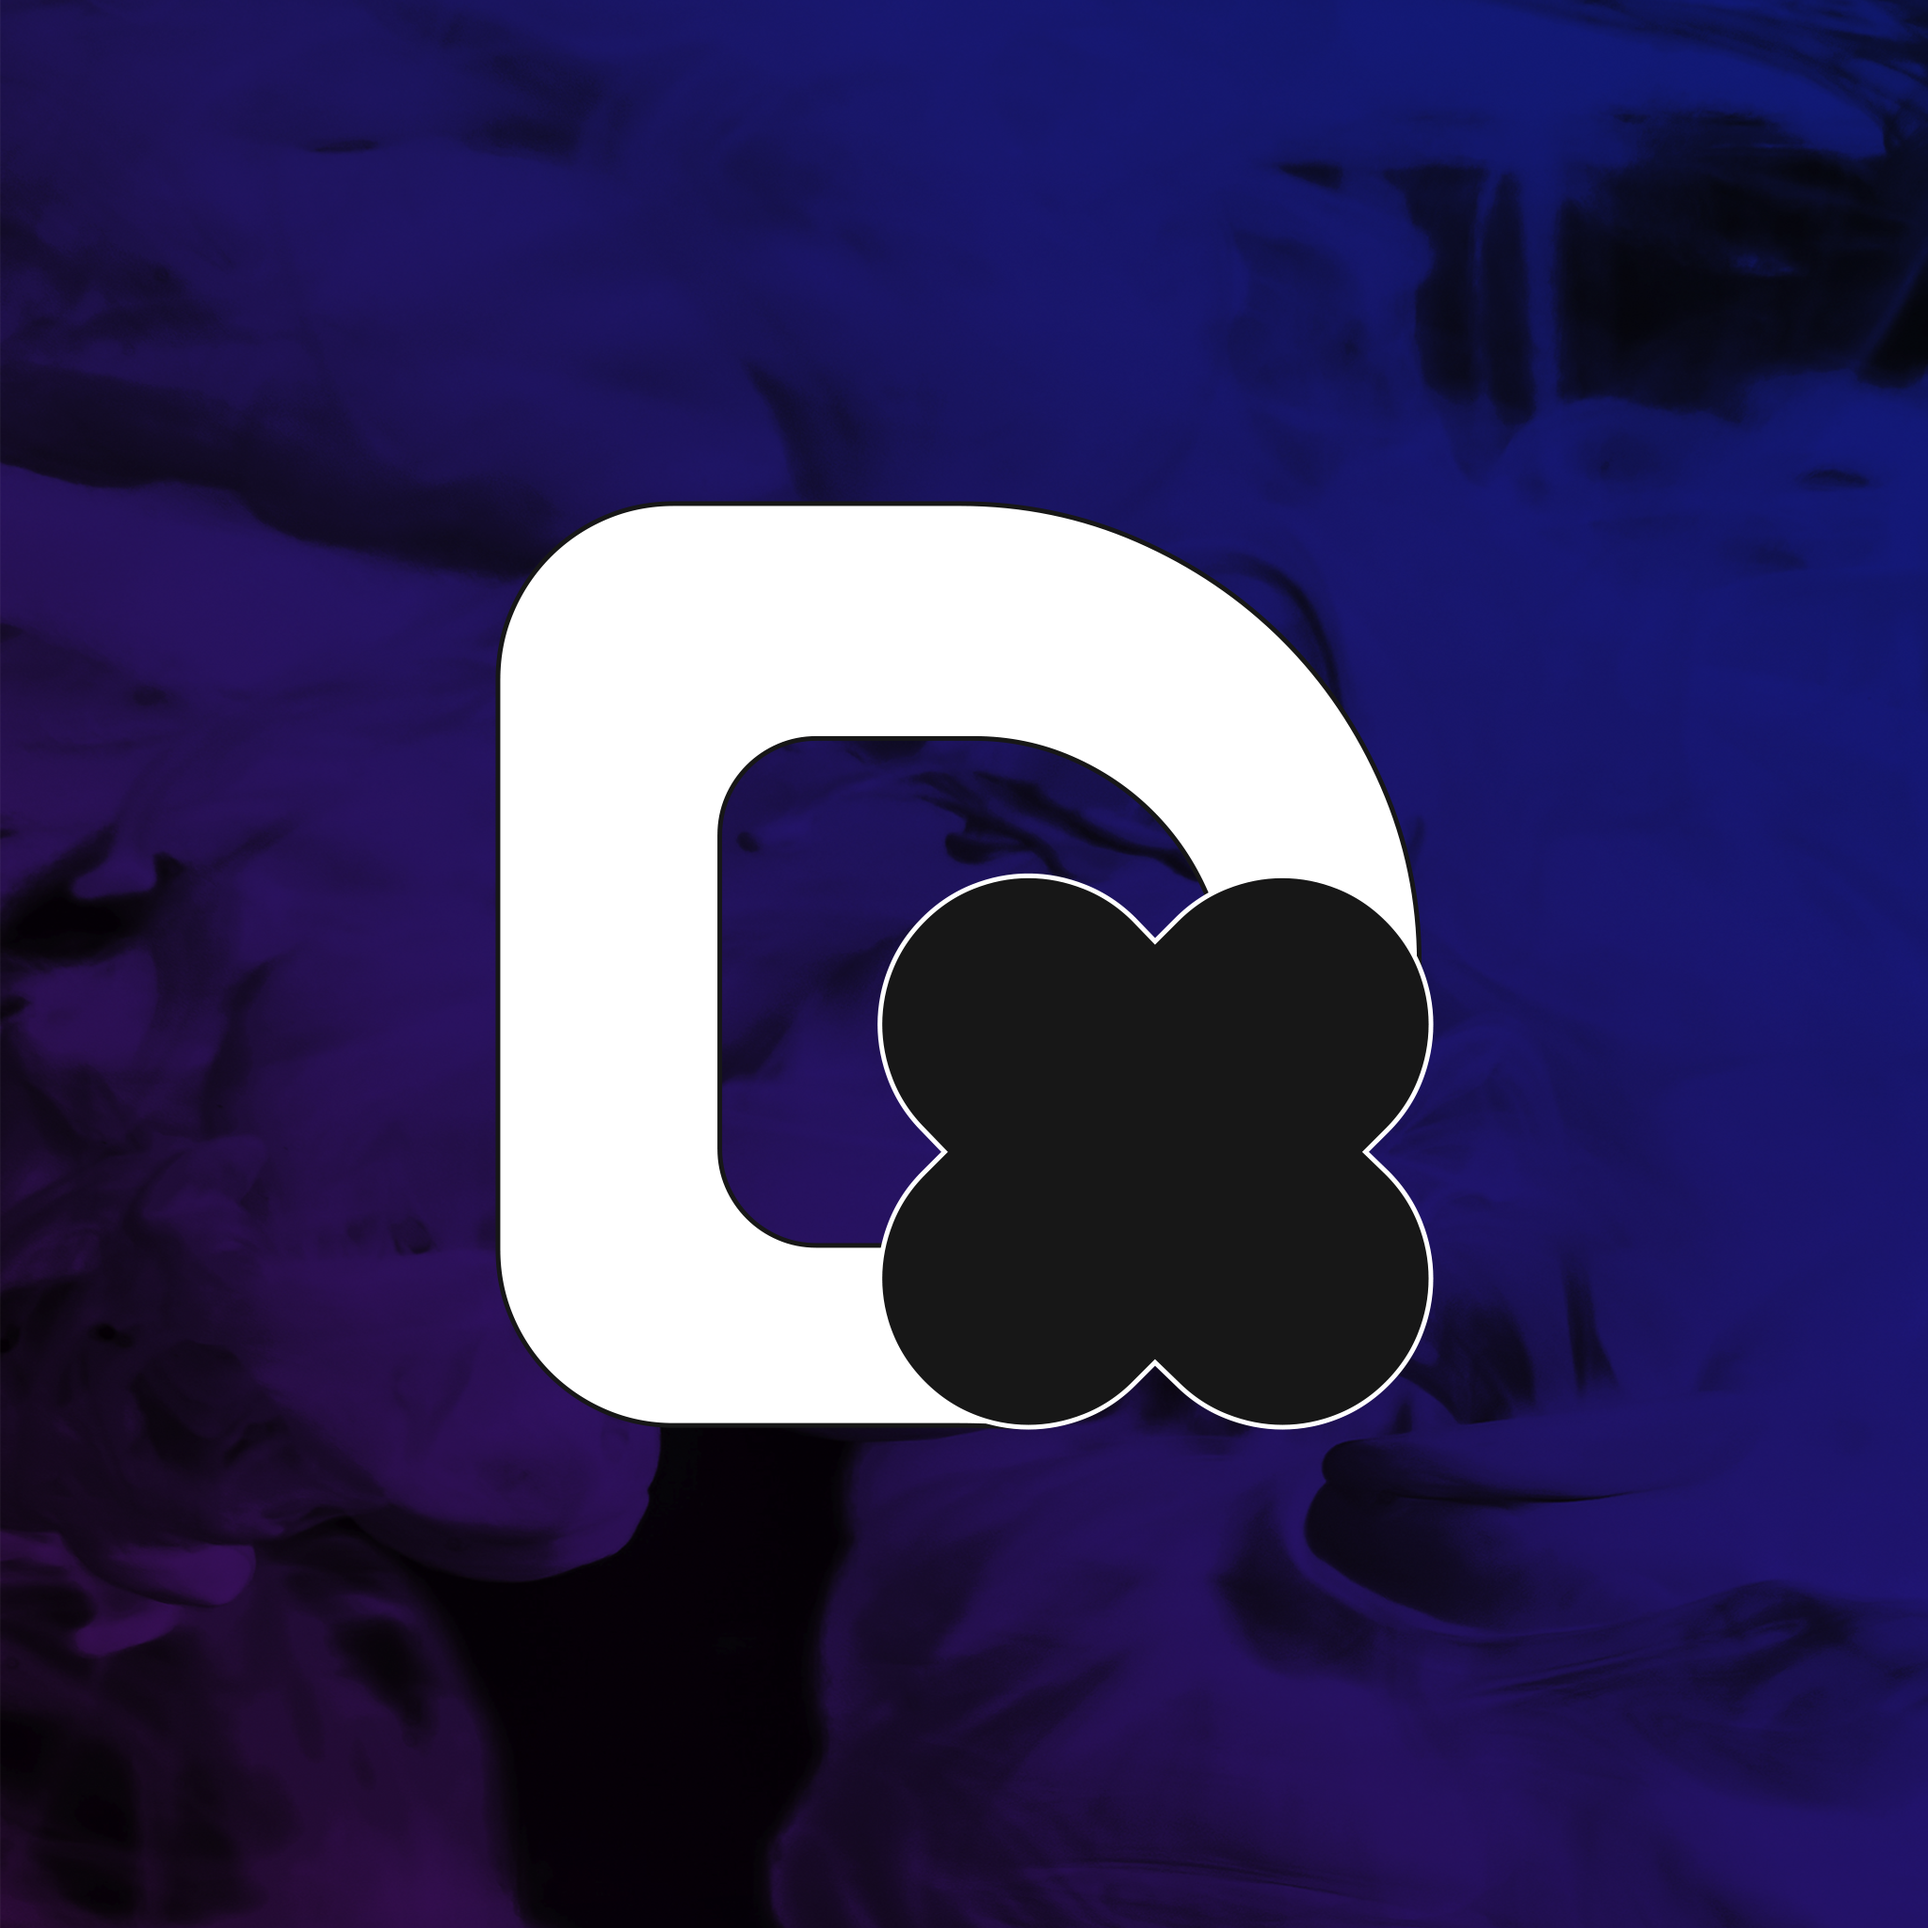
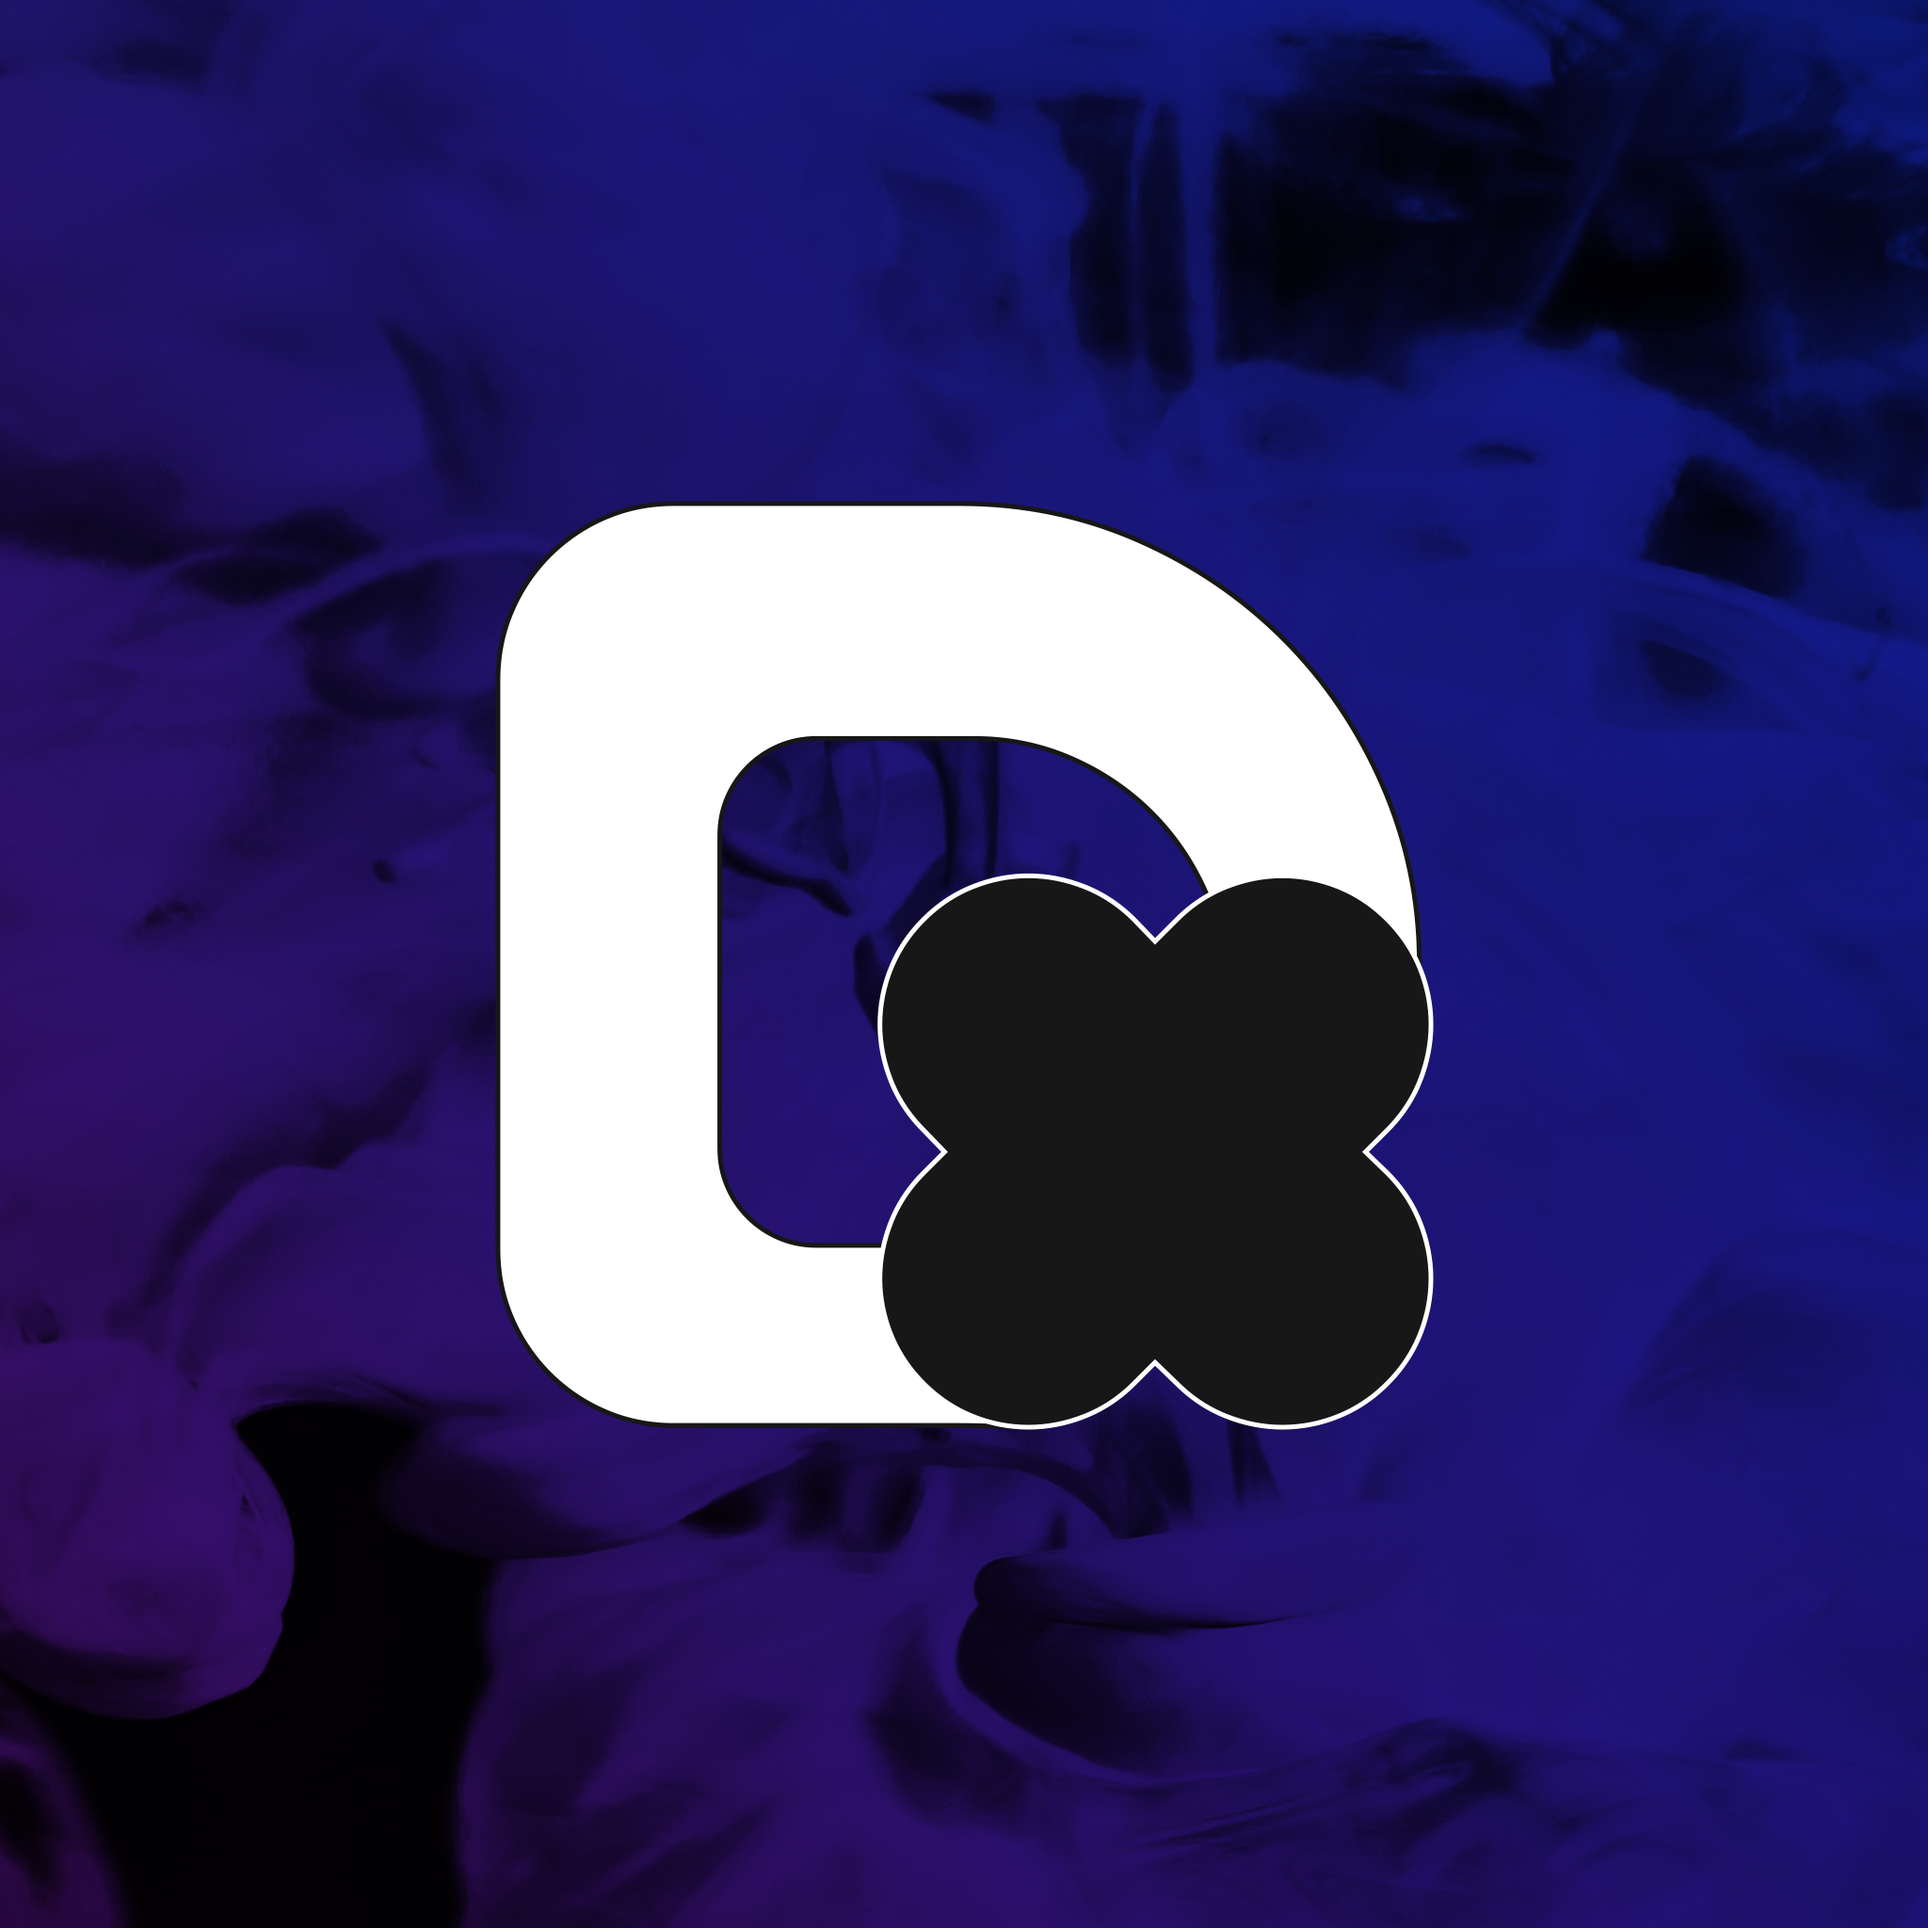
Updated lots including branding, text, and many other things

diff --git a/index.html b/index.html
@@ -37,7 +37,7 @@
 		<nav class="navbar-menu" id="navMenu">
 			<div class="navbar-brand">
 				<a href="/" class="navbar-item">
-					<img src="img/light.png" alt="Avatar">
+					<img src="img/wordmark-dark.png" alt="Dark Wordmark">
 				</a>
 			</div>
 			<div class="navbar-end">
@@ -54,54 +54,68 @@
         	</div>
 		</nav>
 		<div class="banner">
-			<img src="img/typeface-light.png" alt="Avatar" class="avatar">
+			<img src="img/typeface-light.png" alt="Avatar" class="avatar animated fadeIn">
 		</div>
-		<div class="main-section">
-			<br>
-			<h1 class="title is-2 has-text-centered has-text-white">About Me</h1>
+		<div class="main-section animated fadeIn">
 			<br>
 			<img src="img/colour.png" class="me" alt="Avatar">
 			<br>
 			<br>
-			<div class="level is-mobile animated bounce">
-				<a href="https://www.youtube.com/channel/UC-sKaby5WijEgCASk6D4LKA" class="level-item">
-					<span class="icon is-small"><i class="fab fa-youtube"></i></span>
-				</a>
-				<a href="https://twitter.com/CameronDtix" class="level-item">
-					<span class="icon is-small"><i class="fab fa-twitter"></i></span>
-				</a>
-				<a href="https://github.com/MrCamDtix" class="level-item">
-					<span class="icon is-small"><i class="fab fa-github"></i></span>
-				</a>
-				<a href="https://pastebin.com/K0sN5xaB" class="level-item">
-					<span class="icon is-small"><i class="fab fa-discord"></i></span>
-				</a>
-			</div>
+			<a href="https://www.youtube.com/channel/UC-sKaby5WijEgCASk6D4LKA" class="level-item">
+				<span class="icon is-small"><i class="fab fa-youtube"></i></span>
+			</a>
+			&nbsp;
 			<br>
-			<div class="container has-text-centered has-text-white animated fadeIn">
-				Hey, I’m Cameron, also known as Cameron Dtix.
+			<br>
+			<a href="https://twitter.com/CameronDtix" class="level-item">
+				<span class="icon is-small"><i class="fab fa-twitter"></i></span>
+			</a>
+			&nbsp;
+			<br>
+			<br>
+			<a href="https://github.com/MrCamDtix" class="level-item">
+				<span class="icon is-small"><i class="fab fa-github"></i></span>
+			</a>
+			&nbsp;
+			<br>
+			<br>
+			<a href="https://pastebin.com/K0sN5xaB" class="level-item">
+				<span class="icon is-small"><i class="fab fa-discord"></i></span>
+			</a>
+			<br>
+			<br>
+			<br>
+			<br>
+			<br>
+			<br>
+			<div class="white-section has-text-centered">
+				<h1 class="title is-2 has-text-centered has-text-black">About Me</h1>
+				<p>
+					Hey, my name is Cameron, I'm also known as Cameron Dtix.
+					<br>
+					I live in the north east of the United Kingdom, come chat to me on my socials, I am always happy to chat or help people out. ¯\_(ツ)_/¯
+					<br>
+					I have a YouTube channel with over 300 subscribers from making videos a lot before I deleted all of them and now I don't have time for YouTube I'm afraid.
+				</p>
 				<br>
-				I am a 16 year old student from the United Kingdom and i like to mess around. ¯\_(ツ)_/¯
+				<p class="title is-4">Why Daffy Duck?</p>
+				<p class="subtitle is-6">He's a pretty cool geeza, why not lol? ¯\_(ツ)_/¯</p>
+				<img src="img/discord.png" class="discord-profile" alt="Discord Profile">
+				<br>
+				<p class="subtitle is-5">I am pretty much always at my PC, if i don't answer right away I will sooner or later as I do have a life and school is a part of it. </p>
 			</div>
-			<br>
-			<br>
-			<br>
-			<br>
-			<br>
-			<br>
-			<br>
 		</div>
-		<footer class="footer">
-			<p class="subtitle is-7 has-text-centered">Reach me on the only socials i am  mostly active on!</p>
-			<a href="https://twitter.com/CameronDtix"><i class="fab fa-twitter footer-icon"></i></a> <p class="has-text-white">CameronDtix</p>
+		<footer class="footer animated fadeIn">
+			<p class="subtitle is-7 has-text-centered has-text-black" style="font-weight: bolder">Contact me on my main socials!</p>
+			<a href="https://twitter.com/CameronDtix"><i class="fab fa-twitter footer-icon"></i></a> <p class="has-text-black">CameronDtix</p>
 			<br>
-			<a href="#"><i class="fab fa-discord footer-icon"></i></a> <p class="has-text-white">Cameron#5154</p>
+			<a href="#"><i class="fab fa-discord footer-icon"></i></a> <p class="has-text-black">Cameron#5154</p>
 			<br>
-			<a href="mailto:clarkyaka1@gmail.com"><i class="far fa-envelope"></i></a> <p class="has-text-white">clarkyaka1@gmail.com</p>
+			<a href="mailto:clarkyaka1@gmail.com"><i class="far fa-envelope"></i></a> <p class="has-text-black">clarkyaka1@gmail.com</p>
 			<br>
 			<br>
-			<p class="subtitle is-7 has-text-white">Site by <a href="https://dtix.tk">Cameron Clark</a> and <a href="https://danjamesbee.tk">Dan Bee</a></p>
-			<p class="subtitle is-7 has-text-white">© 2019 Dtix. All rights reserved.</p>
+			<p class="subtitle is-7 has-text-black">Site by <a href="https://dtix.tk">Cameron Clark</a> and <a href="https://danjamesbee.tk">Dan Bee</a></p>
+			<p class="subtitle is-7 has-text-black">© 2019 Dtix. All rights reserved.</p>
 			<br> 
 		</footer>
 		<script src="js/navbar.js"></script>

diff --git a/css/style.css b/css/style.css
@@ -4,32 +4,28 @@ body {
 	font-family: 'Montserrat', sans-serif;
 	color: black;
 	/* Code from samonyt.xyz */
-    background: linear-gradient(360deg, #2A0C3E, #19156A);
-	-webkit-animation: fade 5s ease infinite;
-	-moz-animation: fade 5s ease infinite;
-	-o-animation: fade 5s ease infinite;
-	animation: fade 5s ease infinite;
+    background: linear-gradient(100deg, #2F0C5A, #17167A);
+	-webkit-animation: fade 2s ease infinite;
+	-moz-animation: fade 2s ease infinite;
+	-o-animation: fade 2s ease infinite;
+	animation: fade 2s ease infinite;
 
 	/* Code from da532.com */
 	@-webkit-keyframes fade {
         0%{background-position:0% 4%}
-        50%{background-position:100% 97%}
-        100%{background-position:0% 4%}
+        100%{background-position:0% 100%}
     }
     @-moz-keyframes fade {
         0%{background-position:0% 4%}
-        50%{background-position:100% 97%}
-        100%{background-position:0% 4%}
+        100%{background-position:0% 100%}
     }
     @-o-keyframes fade {
         0%{background-position:0% 4%}
-        50%{background-position:100% 97%}
-        100%{background-position:0% 4%}
+        100%{background-position:0% 100%}
     }
     @keyframes fade { 
         0%{background-position:0% 4%}
-        50%{background-position:100% 97%}
-        100%{background-position:0% 4%}
+        100%{background-position:0% 100%}
     }
 }
 
@@ -49,11 +45,12 @@ a.navbar-item:hover {
 	color: black;
 }
 
-.navbar-menu {
+a.navbar-item p {
+	color: black;
 }
 
-a.navbar-item p {
-	color: white;
+.navbar-menu {
+	background-color: white;
 }
 
 .avatar {
@@ -62,12 +59,19 @@ a.navbar-item p {
 	margin: auto;
 }
 
+.discord-profile {
+	width: 250px;
+	display: block;
+	margin: auto;
+}
+
 .banner {
 	padding: 30px;
 }
 
-.main-section {
-	
+.level-item i {
+	background-color: transparent;
+	color: white;
 }
 
 .typeface {
@@ -82,12 +86,18 @@ a.level-item:hover {
 }
 
 .footer-icon {
-	color: white !important;
+	color: black !important;
 }
 
 .footer {
 	text-align: center;
 	padding: 1em;
+	background-color: white;
+	color: black;
+}
+
+.footer p {
+	color: black !important;
 }
 
 .fas {
@@ -95,7 +105,7 @@ a.level-item:hover {
 }
 
 .fab, .far {
-	color: white;
+	color: black;
 }
 
 .icon {
@@ -106,6 +116,15 @@ a.level-item:hover {
 	width: 75px;
 	border-radius: 100%;
 	border: 1px solid black;
+}
+
+.white-section {
+	background-color: white;
+	padding: 50px;
+}
+
+.white-section p {
+	color: black;
 }
 
 .me {

diff --git a/devices.html b/devices.html
@@ -62,11 +62,11 @@
 				</a>
 			</div>
 		</nav>
-		<div class="banner">
+		<div class="banner animated fadeIn">
 			<h1 class="title is-1 has-text-centered has-text-white animated fadeIn">Devices</h1>
 		</div>
 		<br>
-		<div class="container has-text-centered">
+		<div class="container has-text-centered animated fadeIn">
 			<div class="columns">
 				<div class="column">
 					<div class="box">
@@ -95,7 +95,7 @@
 					<div class="box">
 						<div class="media">
 							<div class="media-left">
-								<i class="fas fa-phone"></i>
+								<i class="fab fa-apple" style="font-size: 150px"></i>
 							</div>
 							<div class="media-content">
 								<p class="title is-2">Main Phone</p>
@@ -145,8 +145,8 @@
 			</div>
 		</div>
 		<div style="padding-top: 200px"></div>
-		<footer class="footer">
-			<p class="subtitle is-7 has-text-centered">Reach me on the only socials i am  mostly active on!</p>
+		<footer class="footer animated fadeIn">
+			<p class="subtitle is-7 has-text-centered">Reach me on the only socials I am  mostly active on!</p>
 			<a href="https://twitter.com/CameronDtix"><i class="fab fa-twitter footer-icon"></i></a> <p class="has-text-white">CameronDtix</p>
 			<br>
 			<a href="#"><i class="fab fa-discord footer-icon"></i></a> <p class="has-text-white">Cameron#5154</p>

diff --git a/branding.html b/branding.html
@@ -62,13 +62,13 @@
 				</a>
 			</div>
 		</nav>
-		<div class="banner">
+		<div class="banner animated fadeIn">
 			<h1 class="title is-1 has-text-centered has-text-white animated fadeIn">Branding</h1>
 			<p class="subtitle is-3 has-text-centered has-text-white">by <a href="https://ewanhaynes.com/">Ewan Haynes</a></p>
 		</div>
 		<br>
 		<br>
-		<div class="container has-text-centered">
+		<div class="container has-text-centered animated fadeIn">
 			<div class="columns">
 				<div class="column">
 					<img src="img/avatar.png" alt="Avatar Dark" class="branding">
@@ -99,8 +99,9 @@
 			<br>
 			<br>
 		</div>
-		<footer class="footer">
-			<p class="subtitle is-7 has-text-centered">Reach me on the only socials i am  mostly active on!</p>
+		<footer class="footer animated fadeIn">
+			<br>
+			<p class="subtitle is-7 has-text-centered">Reach me on the only socials I am  mostly active on!</p>
 			<a href="https://twitter.com/CameronDtix"><i class="fab fa-twitter footer-icon"></i></a> <p class="has-text-white">CameronDtix</p>
 			<br>
 			<a href="#"><i class="fab fa-discord footer-icon"></i></a> <p class="has-text-white">Cameron#5154</p>
